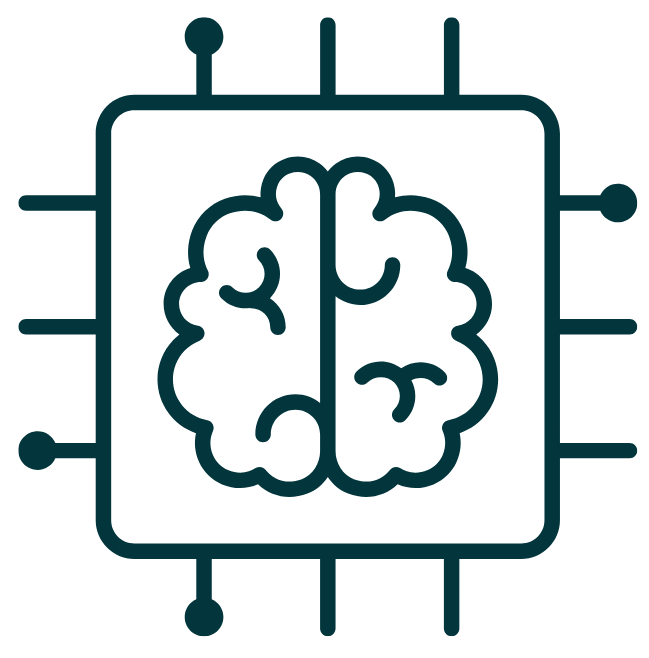
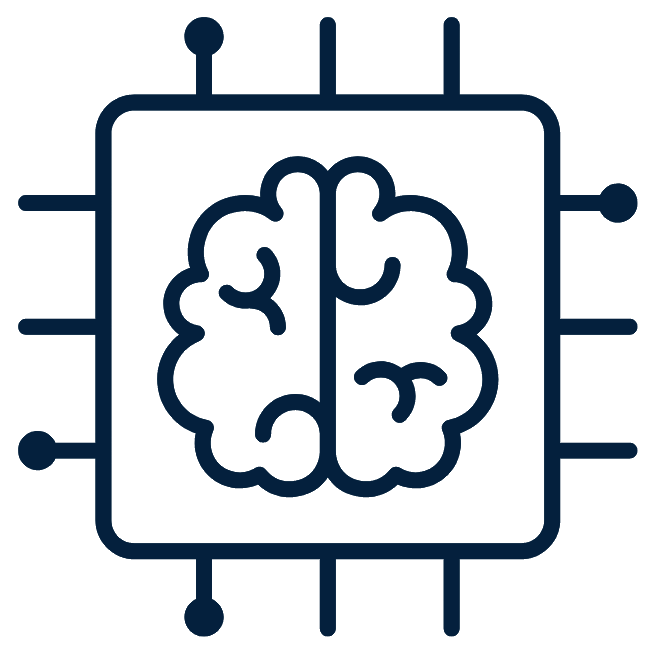
Changed color

diff --git a/css/main.css b/css/main.css
@@ -12,11 +12,11 @@ body
 
 :root
 {
-    --primary: #02353c;
-	--primary-light: #2eaf7d;
-	--secondary: #73ff70;
-    --tertiary: #055661;
-	--gradient: linear-gradient(to right,#2eaf7d, #02353c);
+    --primary: #04203D;
+	--primary-light: #2AD8DD;
+	--secondary: #084c94;
+    --tertiary: #12BCD8;
+	--gradient: linear-gradient(to right,#04203D, #084c94);
 }
 
 .link
@@ -48,7 +48,8 @@ ul
     box-shadow: 3px 3px 3px 3px #8d8c8c;
 }
 
-.slider-control {
+.slider-control 
+{
     position: absolute;
     cursor: pointer;
     z-index: 2;
@@ -97,14 +98,14 @@ ul
 {
     outline: none;
     border: 0;
-    background-color: var(--secondary);
+    background-color: var(--tertiary);
     color: var(--primary);
     font-weight: 500;
 }
 
 .btn:hover
 {
-    background-color:var(--primary-light);
+    background-color:var(--secondary);
     color: #ffff; 
 }
 
@@ -958,7 +959,7 @@ ul
 
 .contact .container-flex
 {
-    background-image: url(../pictures/cover1.jpg);
+    background-image: url(../pictures/cover1.png);
     background-size: cover;
 }
 
@@ -979,10 +980,10 @@ ul
     height: 100%;
 }
 
-.contact .cover
+/* .contact .cover
 {
-    background-color: #02353cea;
-}
+    background-color: #042241e0;
+} */
 
 .contact .contact-info
 {
@@ -1023,7 +1024,7 @@ ul
 
 .contact form input[type=text],
 .contact form input[type=email],
-.contact form input[type=number]
+.contact form input[type=tel]
 {
     width: 100%;
     height: 40px;
@@ -1044,7 +1045,7 @@ ul
 
     .contact form input[type=text],
     .contact form input[type=email],
-    .contact form input[type=number]
+    .contact form input[type=tel]
     {
         width: 80%;
     }
@@ -1072,6 +1073,38 @@ ul
     color: var(--primary);
 }
 
+/* Projects */
+
+.projects .project-control
+{
+    z-index: 9;
+}
+
+.projects .project-control i
+{
+    color: var(--primary);
+    font-size: 30px;
+}
+
+.projects #prev-project
+{
+    left: 1rem;
+}
+
+.projects #next-project
+{
+    right: 1rem;
+}
+
+.projects .project-box
+{
+    width: 20rem;
+    height: 15rem;
+    border: 2px var(--primary) solid;
+    display: flex;
+    position: relative;
+}
+
 /* Footer */
 footer
 {
@@ -1089,7 +1122,7 @@ footer .social-link i
 
 footer .social-link
 {
-    background-color: #2eaf7d;
+    background-color: var(--primary-light);
     width: 40px;
     border-radius: 100%;
     text-decoration: none;
@@ -1114,7 +1147,7 @@ footer .quick-links li .link
 
 .footer-cover
 {
-    background-color: #02353c9f;
+    background-color: #084c947a;
 }
 
 .footer-cover .container-flex:nth-child(1) .row:nth-child(1)
@@ -1295,5 +1328,18 @@ footer .quick-links li .link
     to
     {
         width: 20rem;
+    }
+}
+
+@keyframes slide-next 
+{
+    from
+    {
+        left: 0;
+    }
+    
+    to 
+    {
+        left: -100px;
     }
 }

diff --git a/html/index.html b/html/index.html
@@ -270,7 +270,7 @@
                                     <input type="email" name="email" placeholder="Your Email">
                                 </div>
                                 <div class="col-lg-9 py-3">
-                                    <input type="number" name="number" placeholder="Your Contact Number">
+                                    <input type="tel" name="number" placeholder="Your Contact Number">
                                 </div>
                                 <div class="col-lg-9 py-3">
                                     <textarea name="message" placeholder="Your Message" rows="5" cols="62"></textarea>
@@ -286,11 +286,29 @@
                                     </button>
                                 </div> 
                             </form><!-- End Form -->
-                        </div>
+                        </div><!-- End Contact-Form -->
                     </div><!-- End Row>-->
                 </div><!-- End Cover -->
             </div><!-- End Container-Flex -->
         </section><!-- End Conatct-->
+        <section class="projects">
+            <div class="slider container d-flex justify-content-center align-items-center mt-4">
+                <a class="slider-control project-control" id="prev-project"><i class="fa fa-angle-double-left"></i></a>
+                <div class="project-box row justify-content-center align-items-center py-2 mx-3">
+                    <p class="py-2">Project 1</p>
+                </div>
+                <div class="project-box row justify-content-center align-items-center py-2 mx-3">
+                    <p class="py-2">Project 2</p>
+                </div>
+                <div class="project-box row justify-content-center align-items-center py-2 mx-3">
+                    <p class="py-2">Project 3</p>
+                </div>
+                <div class="project-box row justify-content-center align-items-center py-2 mx-3">
+                    <p class="py-2">Project 4</p>
+                </div>
+                <a class="slider-control project-control" id="next-project"><i class="fa fa-angle-double-right"></i></a>
+            </div>
+        </section>
     </body><!-- End Body -->
     <footer>
         <div class="footer-cover container-flex mt-4 pt-4">
@@ -329,3 +347,4 @@
 <script src="../js/script.js"></script>
 <script src="../js/show_hide.js"></script>
 <script src="../js/chatbot.js"></script>
+<script src="../js/slider.js"></script>

diff --git a/js/slider.js b/js/slider.js
@@ -1,0 +1,96 @@
+// Global Variable
+let project_box = document.getElementsByClassName("project-box");
+let slide_project = [];
+let next_project = document.getElementById("next-project");
+let prev_project = document.getElementById("prev-project");
+let mid = 1
+let last = 2;
+let first = 0;
+
+function adjust_box()
+{
+    for(let i=0; i<project_box.length; i++)
+    {
+        slide_project.push(project_box[i]);
+        if(i > 2)
+        {
+            project_box[i].style.display = "none";
+        }
+    }
+
+}
+
+function translate()
+{
+    slide_project[1].style.transform = `scale(${1.1})`;
+    for(let i=mid; i<project_box.length; i++)
+    {
+        if(mid - i >= 0)
+        {
+            slide_project[mid - i].style.transform = `scale(${0.9})`;
+        }
+        if(mid + i < project_box.length)
+        {
+            slide_project[mid + i].style.transform = `scale(${0.9})`;
+        }
+    }
+}
+
+function slide_next()
+{
+    if(last < project_box.length - 1)
+    {
+        slide_project.shift().style.display = "none";
+        project_box[last + 1].style.display = "flex";
+        slide_project.push(project_box[last + 1]);
+        last++;
+        first++;
+        translate();
+    }
+}
+
+function set_transition(currrent_ani)
+{
+    if(currrent_ani < project_box.length - 1)
+    {
+        console.log(currrent_ani);
+        project_box[currrent_ani].style.animation = "slide-next 1s 1";
+        project_box[currrent_ani].addEventListener
+        (
+            "animationend",
+            function()
+            {
+                currrent_ani++;
+                set_transition(currrent_ani);
+            }
+        )
+    }
+}
+
+function slide_prev()
+{
+    if(first > 0)
+    {
+        slide_project.pop().style.display = "none";
+        project_box[first - 1].style.display = "flex";
+        slide_project.unshift(project_box[first - 1]);
+        first--;
+        last--;
+        translate();
+    }
+}
+
+adjust_box();
+translate();
+next_project.addEventListener
+(
+    "click",
+    slide_next
+);
+prev_project.addEventListener
+(
+    "click",
+    slide_prev
+);
+
+
